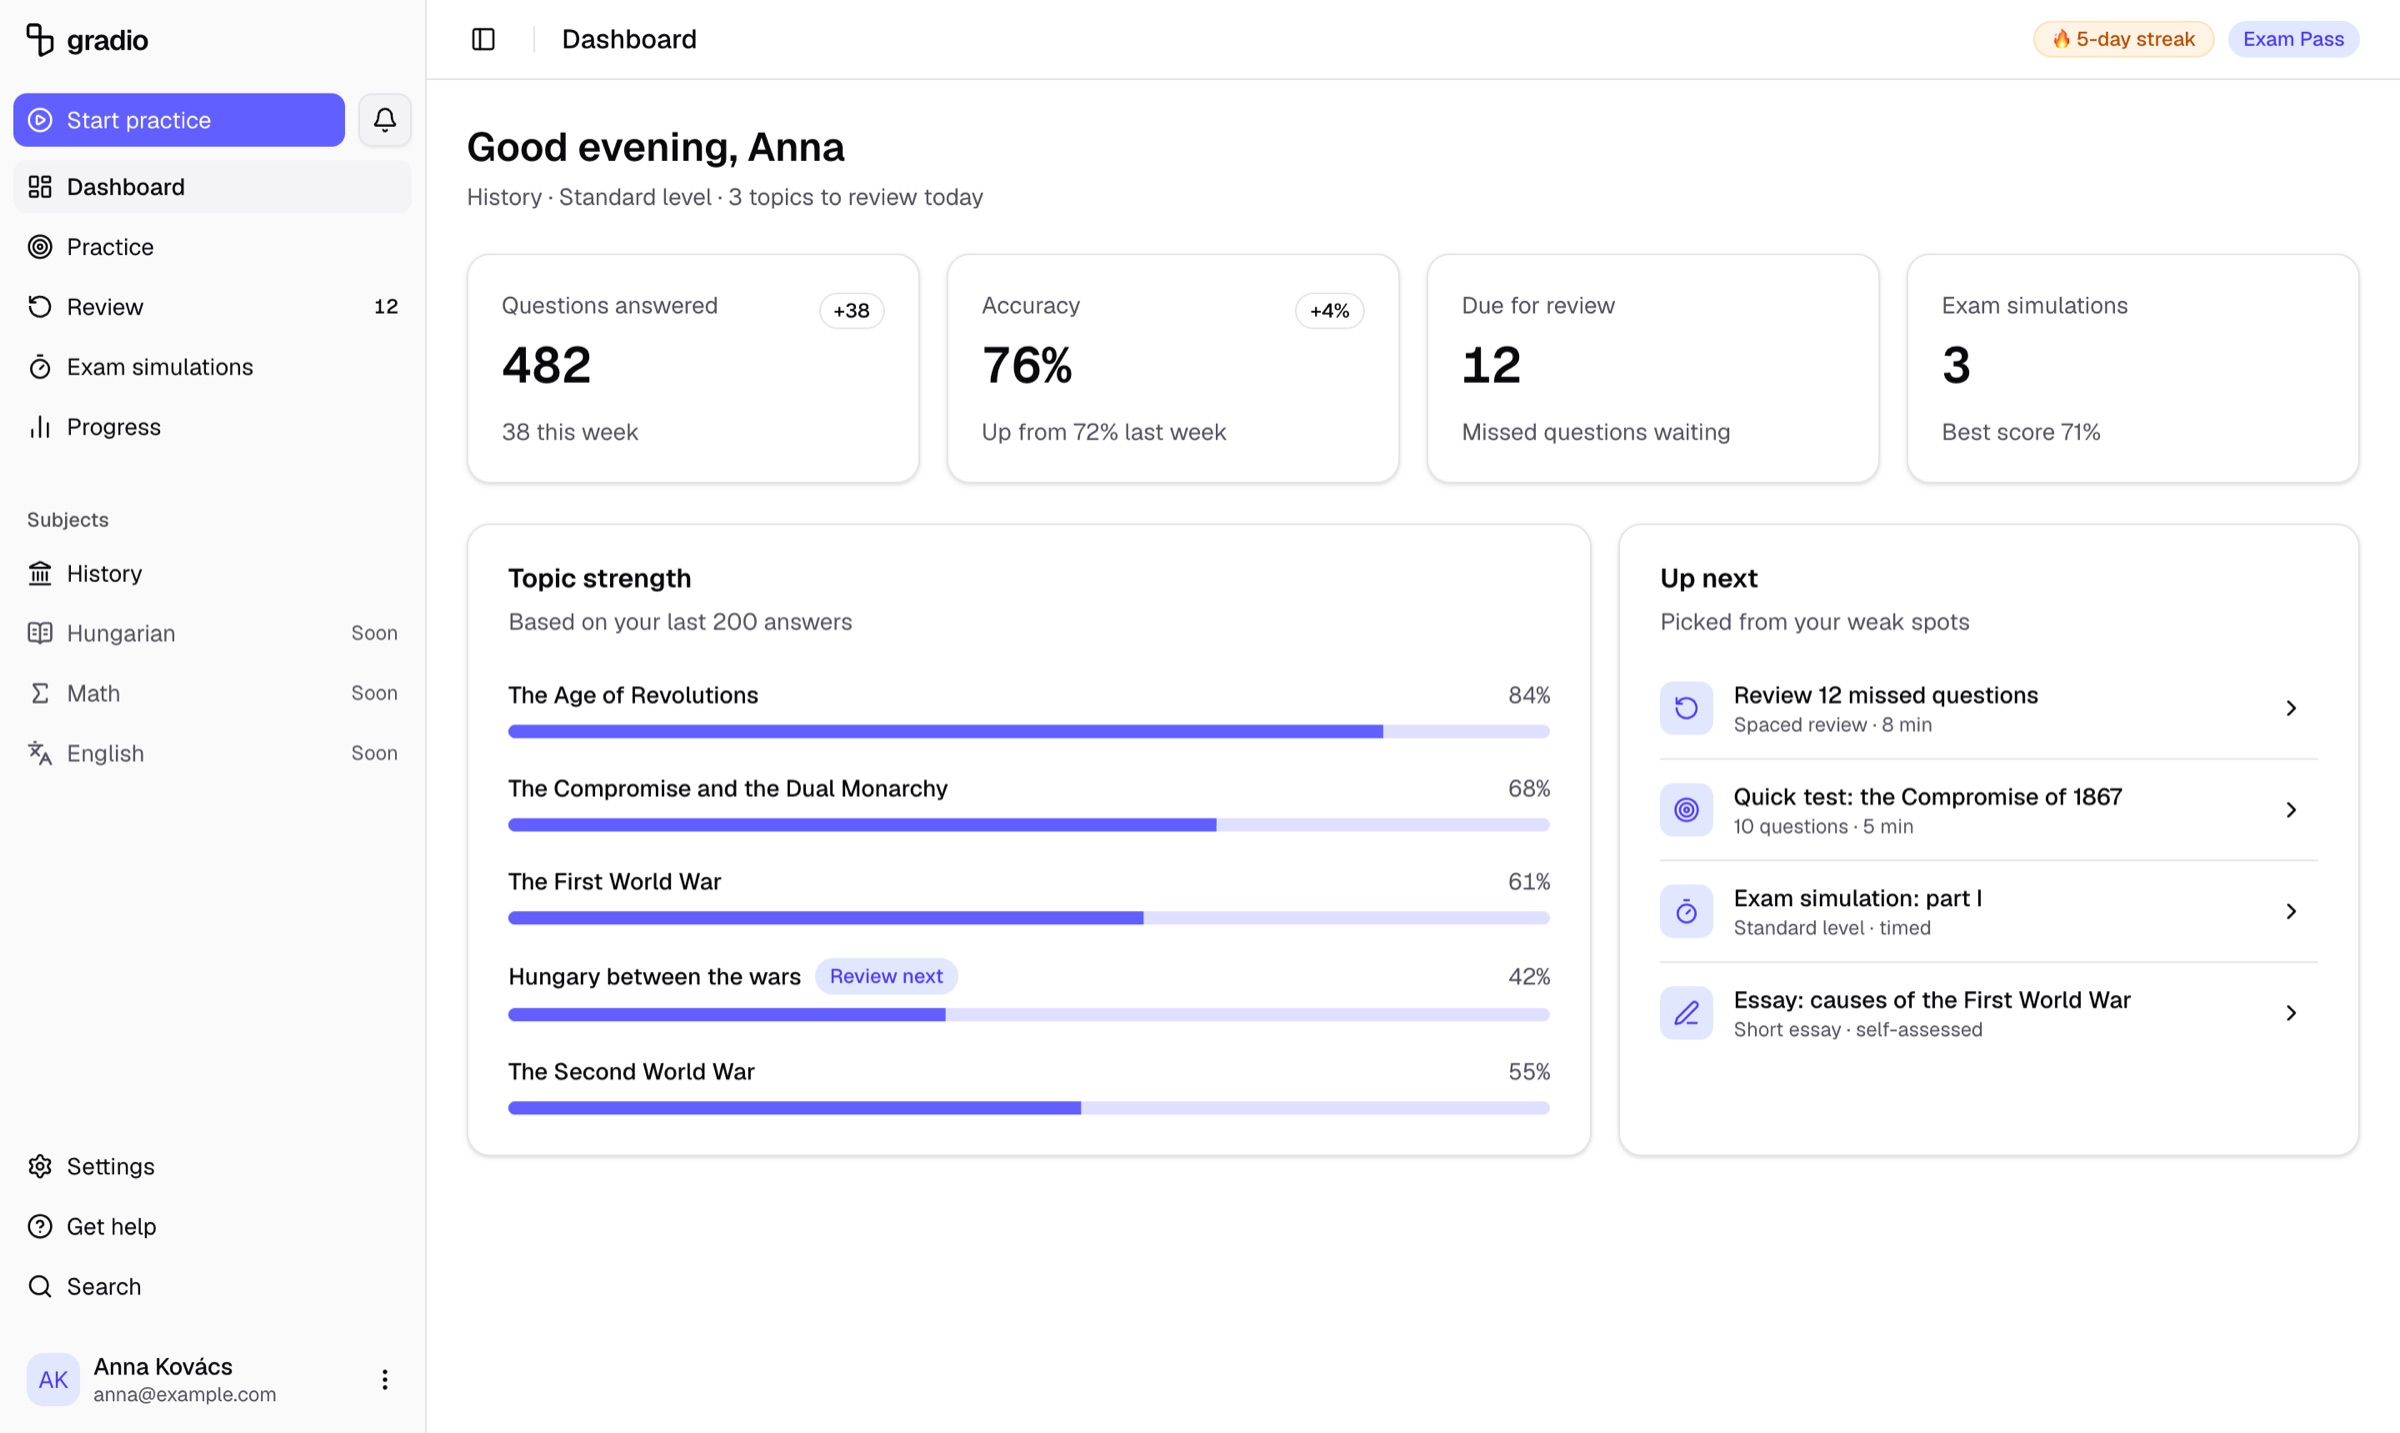
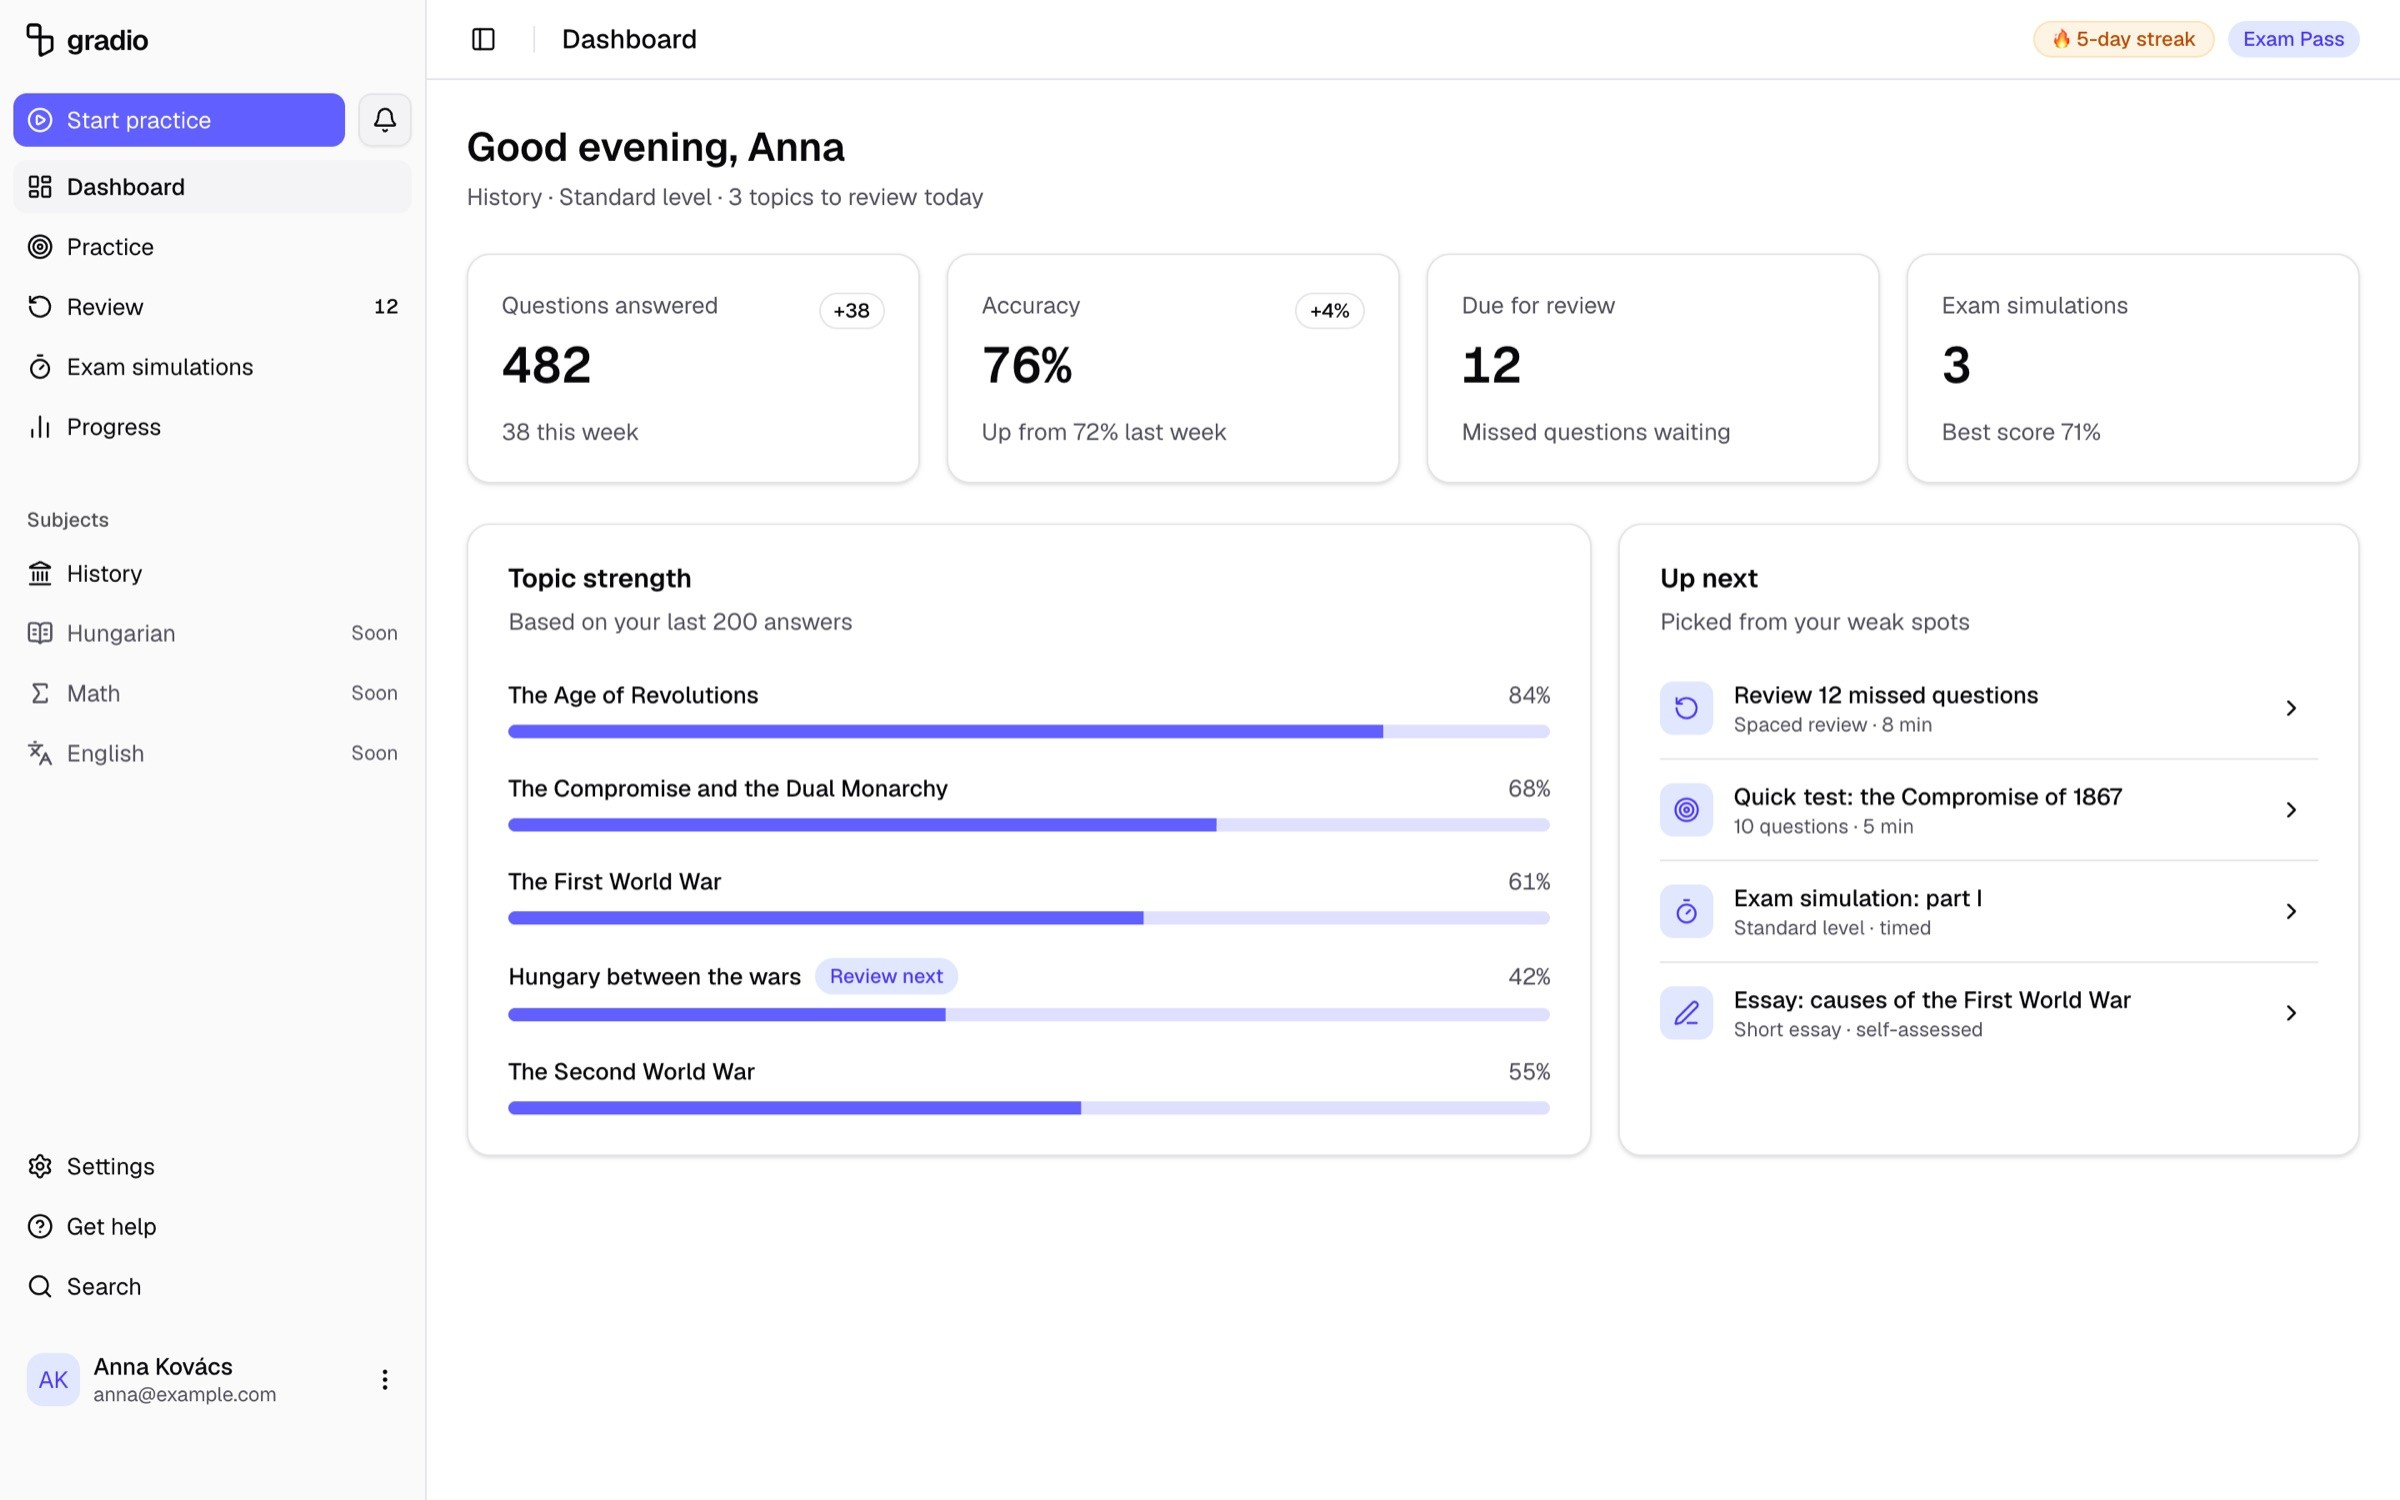
Add Scouting and Project Mamor to the mosaic and make every screenshot 16:10.
Scouting links to its live site and Project Mamor is marked in development. Copy covers only what each project's code does.

diff --git a/src/components/landing/project-icon.tsx b/src/components/landing/project-icon.tsx
@@ -1,6 +1,6 @@
 import type { Project } from "@/lib/projects";
 
-// 16×16 pixel art, same spirit as the Claude critter. Fixed colours: they read on the pastel tiles in both themes.
+// 16×16 pixel art, same spirit as the Claude critter. Fixed colours read on the pastel tiles in both themes.
 const colors: Record<string, string> = {
   R: "#A9553A", // terracotta
   r: "#7E3D28", // dark terracotta
@@ -10,6 +10,7 @@ const colors: Record<string, string> = {
   G: "#7C8B4F", // olive
   Y: "#E8BD5F", // ochre
   S: "#8E8578", // stone
+  F: "currentColor", // follows the text colour, for art that has to read on its tile in both themes
 };
 
 type IconName = Project["slug"] | "lock";
@@ -32,6 +33,44 @@ const icons: Record<IconName, string[]> = {
     "..WWWWWDDWWWWW..",
     "..WWWWWDDWWWWW..",
     "GGGGGGGGGGGGGGGG",
+    "................",
+  ],
+  // a magnifying glass finding a person
+  scouting: [
+    "................",
+    "....RRRRRR......",
+    "...RRWWWWRR.....",
+    "..RRWWDDWWRR....",
+    "..RWWWDDWWWR....",
+    "..RWWWWWWWWR....",
+    "..RWWDDDDWWR....",
+    "..RWWDDDDWWR....",
+    "..RRWWWWWWRR....",
+    "...RRWWWWRR.....",
+    "....RRRRRRrr....",
+    "..........rrr...",
+    "...........rrr..",
+    "............rrr.",
+    ".............rr.",
+    "................",
+  ],
+  // the serif M of the Mamor Models logo
+  mamor: [
+    "................",
+    "................",
+    ".FFFF......FFFF.",
+    "...FFF....FFF...",
+    "...FFF....FFF...",
+    "...FFFF..FFFF...",
+    "...FF.F..F.FF...",
+    "...FF.FFFF.FF...",
+    "...FF..FF..FF...",
+    "...FF..FF..FF...",
+    "...FF......FF...",
+    "...FF......FF...",
+    "..FFFF....FFFF..",
+    ".FFFFFF..FFFFFF.",
+    "................",
     "................",
   ],
   // a horseshoe

diff --git a/src/lib/projects.ts b/src/lib/projects.ts
@@ -1,4 +1,4 @@
-// To add a project: an entry here, a screenshot in public/projects/ (any proportions: imageSize keeps it uncropped), a pixel icon in project-icon.tsx, and projects.items.<slug> in all 3 message files.
+// To add a project: an entry here, a full-window 16:10 screenshot in public/projects/ (1200x750 at 2x), a pixel icon in project-icon.tsx, and projects.items.<slug> in all 3 message files.
 // url: the live site, or null to leave the link out of the modal.
 // image: null shows the pixel icon large instead; tech: [] hides that block. Only list tech the project really uses.
 // status: a key under projects.status, shown in the modal. "building" = not launched yet: those are named "Project <one word>".
@@ -16,18 +16,36 @@ export const projects = [
     slug: "gaited",
     url: "https://gaited-monorepo.vercel.app",
     image: "/projects/gaited.jpg",
-    imageSize: [2400, 1499],
+    imageSize: [2400, 1500],
     tint: "bg-olive/55",
     tech: ["Next.js", "Neon Postgres", "Neon Auth", "Drizzle", "Vercel"],
     status: "preflight",
   },
   {
+    slug: "scouting",
+    url: "https://scouting.agency",
+    image: "/projects/scouting.jpg",
+    imageSize: [2400, 1500],
+    tint: "bg-ochre/80",
+    tech: ["Next.js", "Neon Postgres", "Neon Auth", "Resend", "Vercel"],
+    status: null,
+  },
+  {
     slug: "gradio",
     url: null,
     image: "/projects/gradio.jpg",
-    imageSize: [2400, 1433],
+    imageSize: [2400, 1500],
     tint: "bg-moss/55",
     tech: ["Next.js", "Expo", "tRPC", "Better Auth", "Neon"],
+    status: "building",
+  },
+  {
+    slug: "mamor",
+    url: null,
+    image: "/projects/mamor.jpg",
+    imageSize: [2400, 1500],
+    tint: "bg-brand/30",
+    tech: ["Next.js", "Framer Motion", "WebGL"],
     status: "building",
   },
   {

diff --git a/src/components/landing/projects.tsx b/src/components/landing/projects.tsx
@@ -25,7 +25,7 @@ const modalRadius = { borderRadius: 16 };
 // Plain squares fill the spots in `plainSpots` (first ones first), the "+" square is always last.
 const perBlock = 12;
 const plainSpots = [1, 6, 9, 4, 10];
-const plainTints = ["bg-moss/30", "bg-sand/80", "bg-clay/30", "bg-ochre/30", "bg-stone/45"];
+const plainTints = ["bg-moss/30", "bg-sand/80", "bg-clay/30", "bg-stone/45", "bg-ochre/30"];
 
 type MosaicCell =
   | { kind: "project"; project: Project }

diff --git a/CLAUDE.md b/CLAUDE.md
@@ -143,7 +143,9 @@ A section on the main page (`#projects`, `projects.tsx`, between AI and Team, li
 - **Wording**: this is a selection, not the full list (the team has done far more work than is shown). Headlines must not imply otherwise: no "what we've built so far".
 - **Motion level**: the user found tilt, bounce, big scale, dimming neighbours and a critter here too gamified. Keep it calm: small hover, no overshoot.
 
-To add a project: an entry in `lib/projects.ts` (`tech` isn't translated), a screenshot in `public/projects/`, a 16x16 pixel icon in `project-icon.tsx`, and `projects.items.<slug>` in all 3 message files (`name`, `type`, `description`, `solutions`). Only list real work and name tech from the project's actual dependencies: no invented results or client quotes. Unlaunched work gets `status: "building"` (shown in the modal) and is named "Project <one word>" (Project Gradio, Project Thrift, Project Scanner), not translated. No screenshot or verified tech yet: `image: null`, `tech: []`. Thrift and Scanner have no repo yet.
+To add a project: an entry in `lib/projects.ts` (`tech` isn't translated), a full-window 16:10 screenshot in `public/projects/` (1200x750 at 2x, all the same ratio), a 16x16 pixel icon in `project-icon.tsx`, and `projects.items.<slug>` in all 3 message files (`name`, `type`, `description`, `solutions`). Only list real work and name tech from the project's actual dependencies: no invented results or client quotes. Unlaunched work gets `status: "building"` (shown in the modal) and is named "Project <one word>" (Project Gradio, Project Mamor, Project Thrift, Project Scanner), not translated. No screenshot or verified tech yet: `image: null`, `tech: []`. Thrift and Scanner have no repo yet.
+
+Scouting: first-screen screenshot only (sample applicants appear further down the live page). Copy claims only what the code does, so check its repo before adding to it.
 
 Gaited: keep it to what is on the card: no roadmap, internal architecture, pricing or code. Only claim what works: account flows, onboarding, per-type interfaces, admin console, data export and deletion. Gradio has `url: null` until its live page is ready to link.
 
